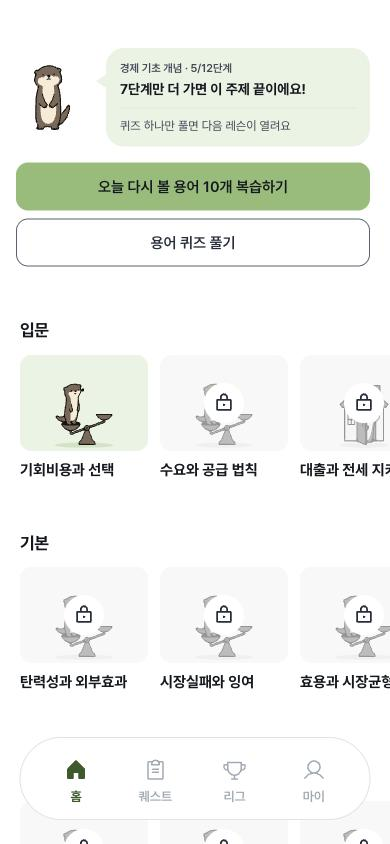
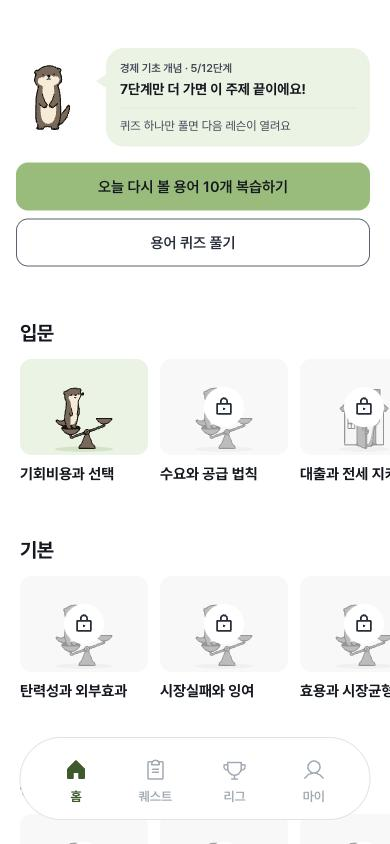
홈 난이도 제목(입문·기본…) 17px에서 20px 굵게(코스 이름 15px보다 크게)

diff --git a/src/index.css b/src/index.css
@@ -1234,6 +1234,8 @@ button.quiz-option.border-transparent { border-color: var(--color-line-strong) !
 .course-home-hero { margin: 0 0 var(--section-gap) !important; border-radius: 0 !important; background: var(--color-card) !important; }
 .course-home-hero .course-home-bubble, .course-home-hero .course-home-bubble::before { background: var(--color-accent-soft); }
 .course-home-section-heading { margin: 0 !important; padding: var(--space-5) var(--space-5) 0; background: var(--color-card); }
+/* 홈 난이도 제목(입문·기본 …)은 코스 이름(15px)보다 확실히 크게 */
+.course-home-section-heading h2 { font-size: var(--font-size-title-3); font-weight: var(--font-weight-bold); }
 .course-home-rail { margin: 0 0 var(--section-gap); padding-top: var(--space-3); padding-bottom: var(--space-5); background: var(--color-card); }
 .course-home-overview { margin: 0 0 var(--section-gap) !important; padding: 0 var(--space-5); background: var(--color-card); }
 button.home-review-entry { border-bottom: 0; }
